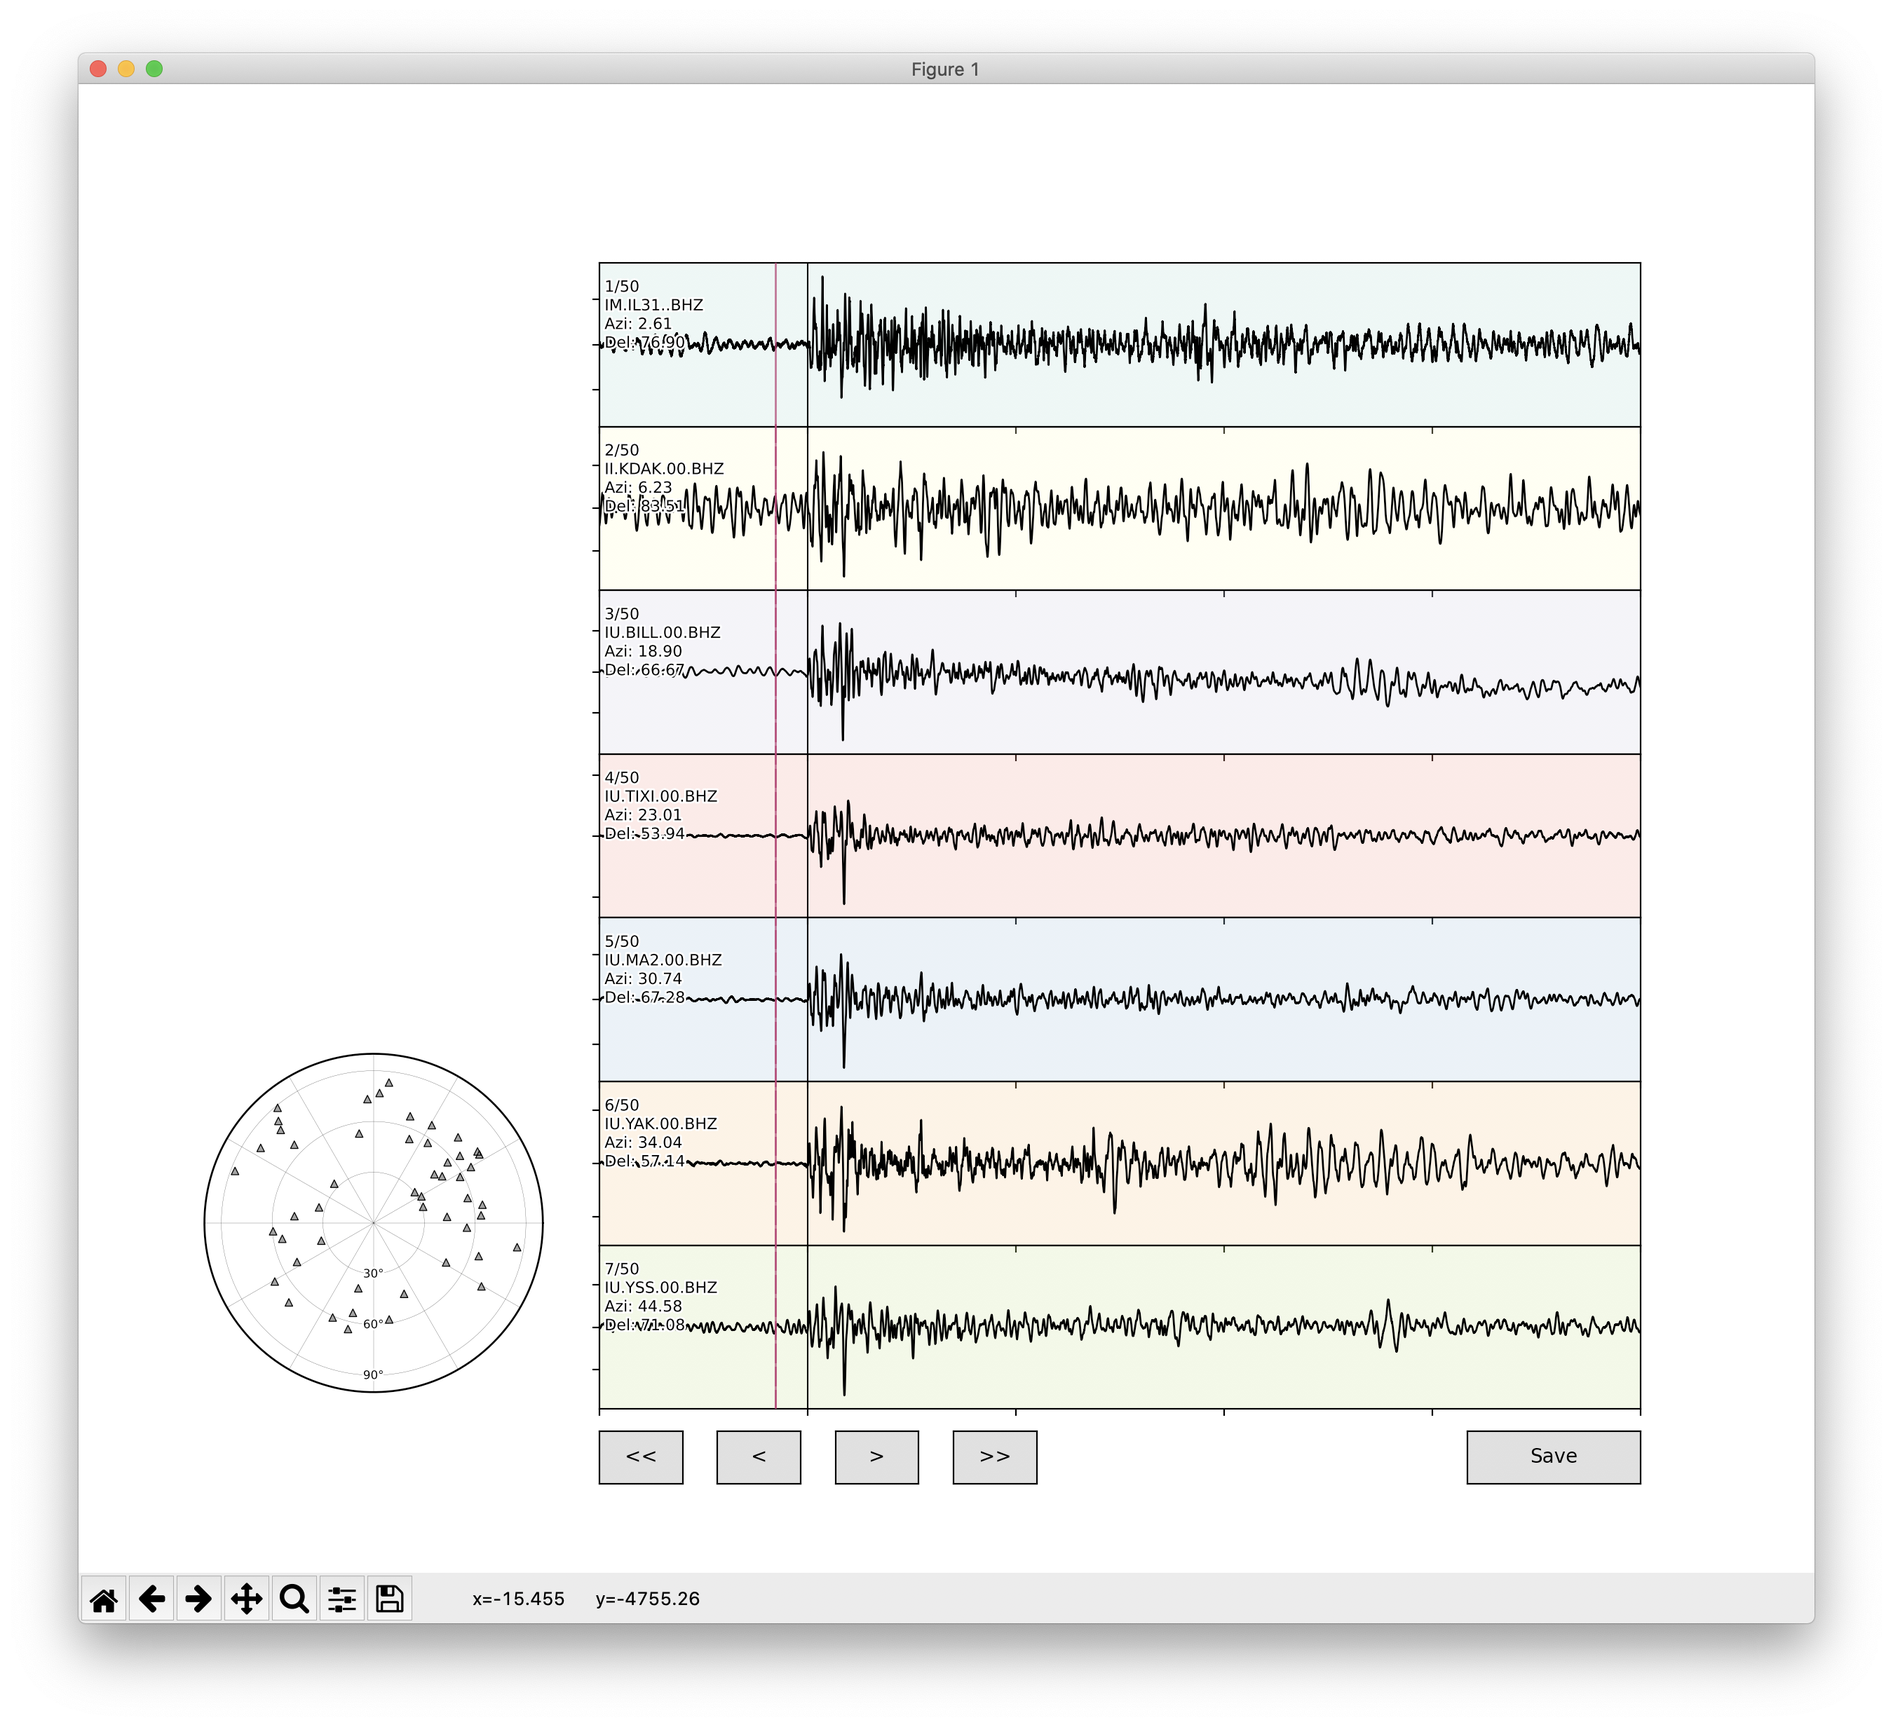
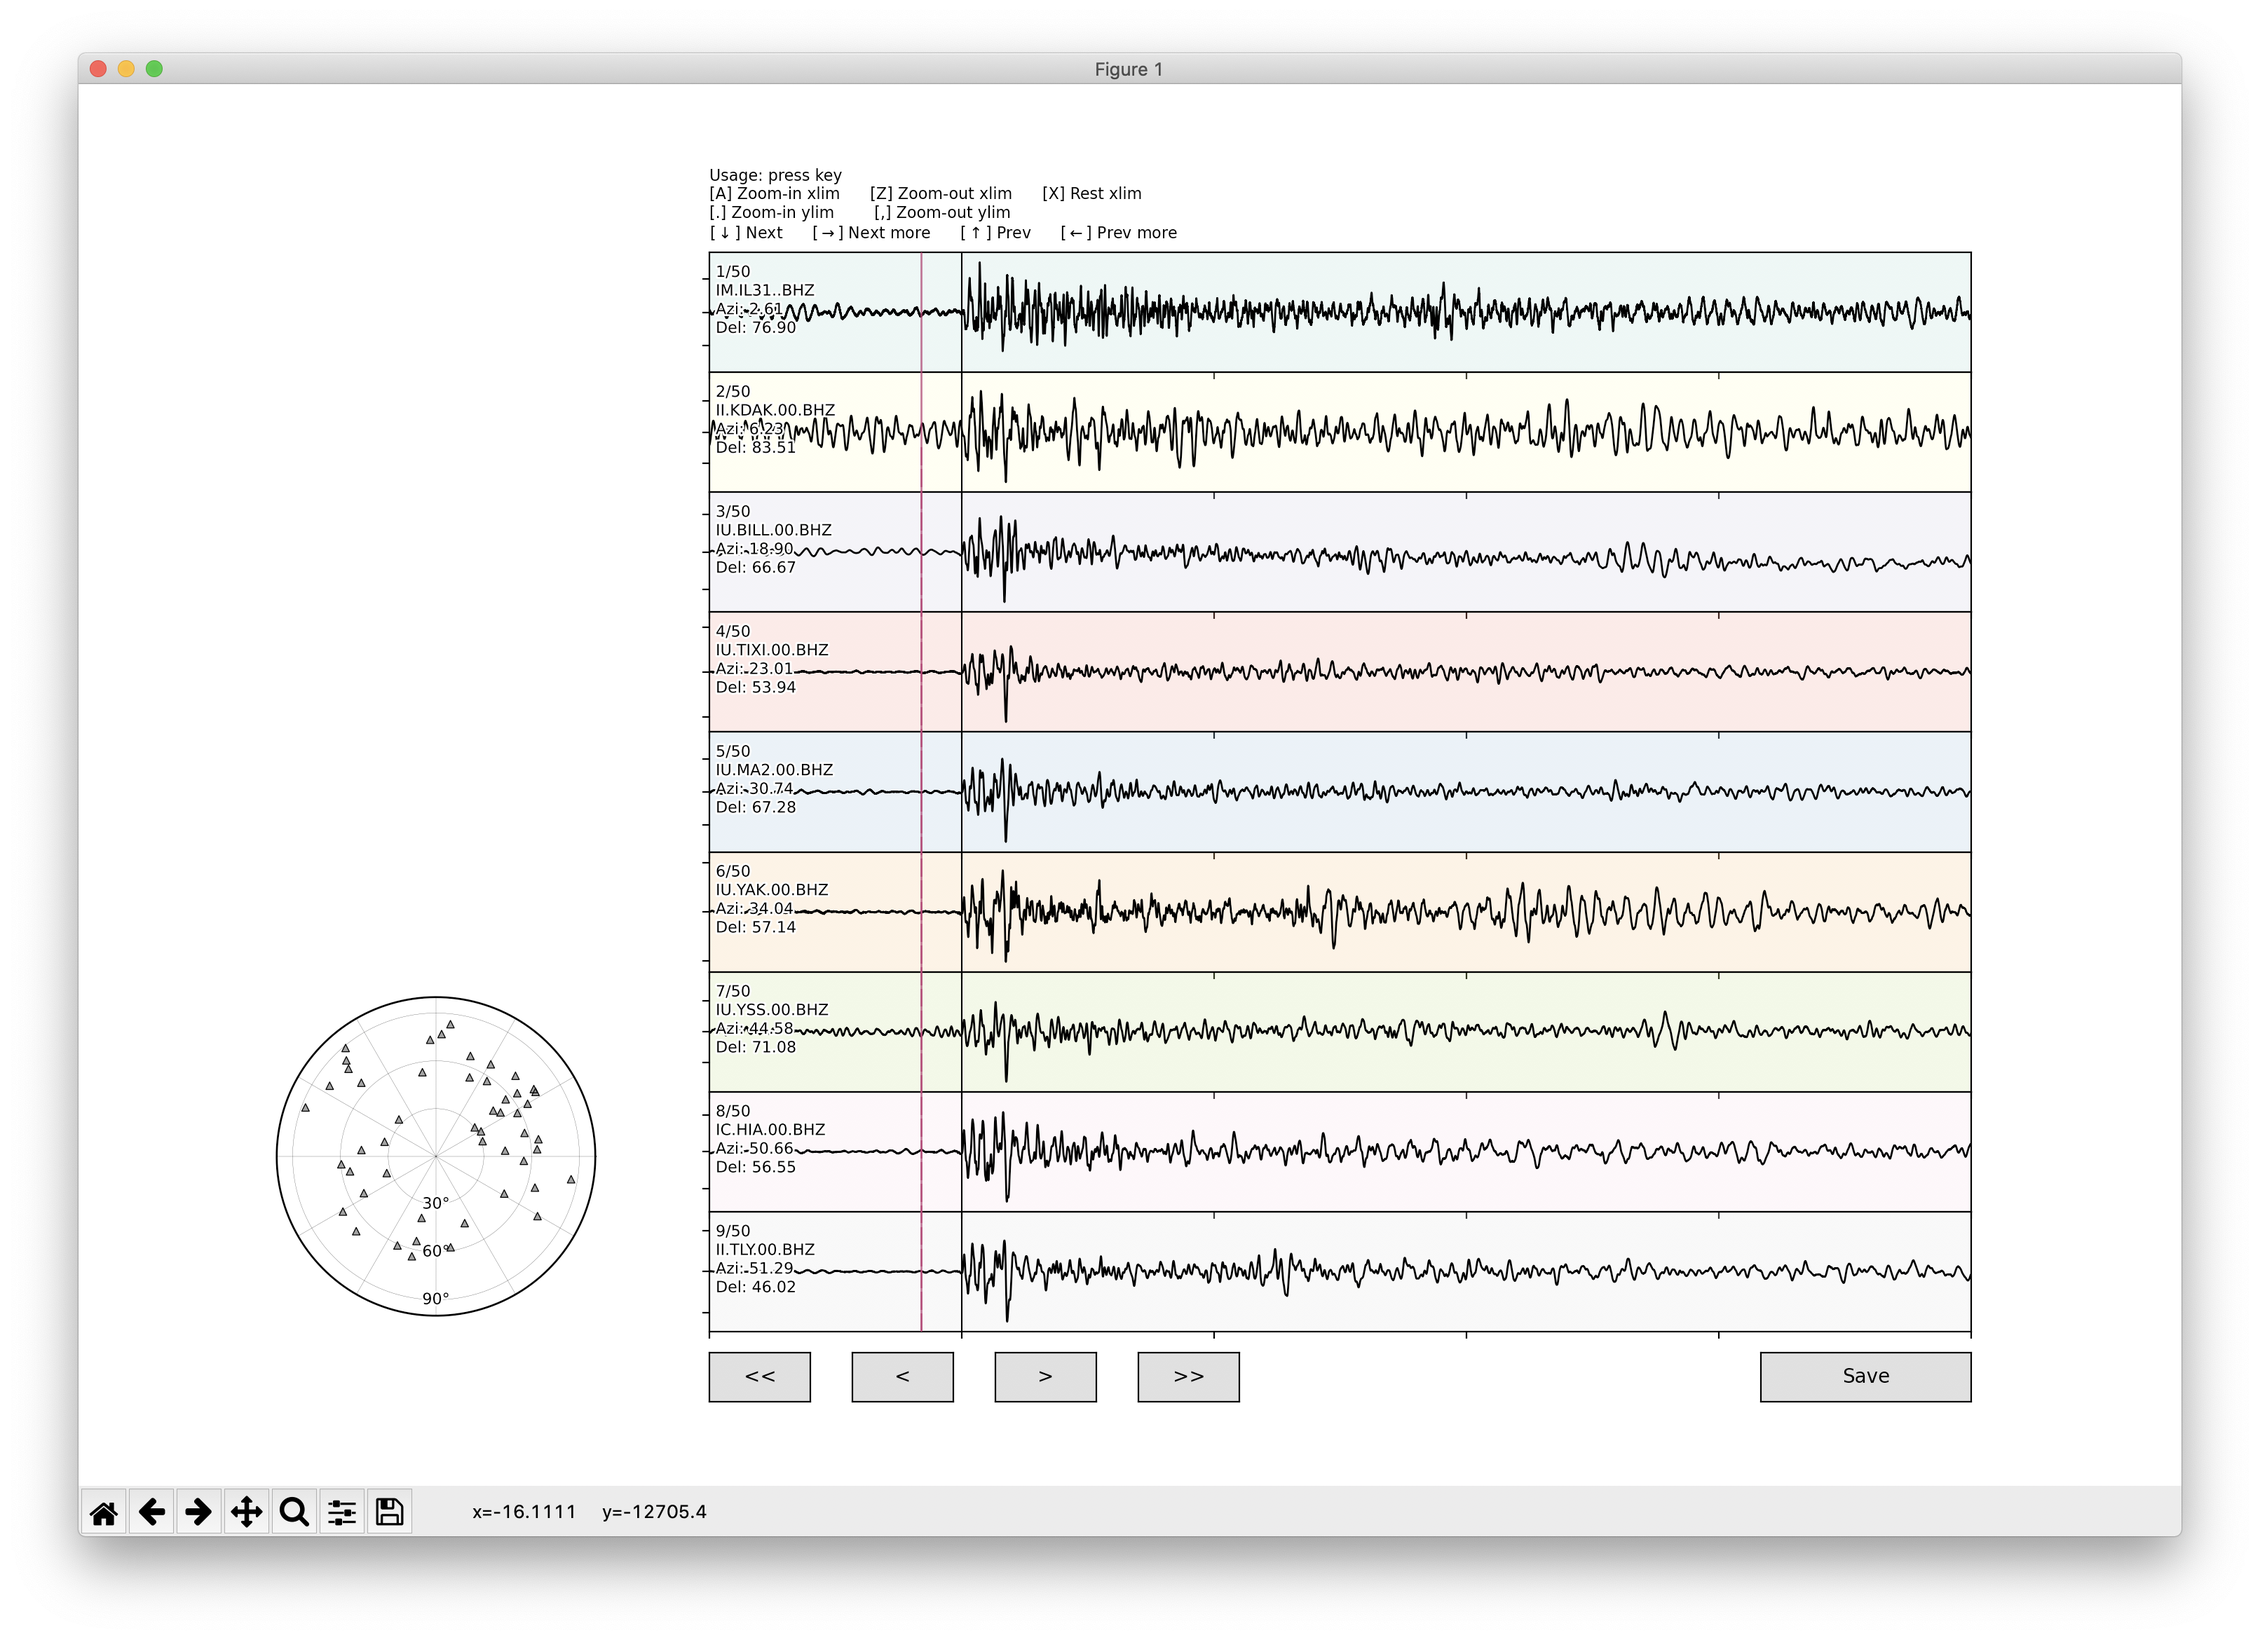
add screenshot

diff --git a/pyP.py b/pyP.py
@@ -25,7 +25,7 @@ class Index(object):
         fig.canvas.draw()
 
     def nextFurther(self, event):
-        self.ind += worknumtrace
+        self.ind += worknumtrace - 1
         if self.ind > totalnumtrace-1:
             self.ind = self.ind - totalnumtrace
         for ax in axs:
@@ -57,7 +57,7 @@ class Index(object):
         fig.canvas.draw()
 
     def prevFurther(self, event):
-        self.ind -= worknumtrace
+        self.ind -= worknumtrace - 1
         if self.ind < 0:
             self.ind = self.ind + totalnumtrace
         for ax in axs:
@@ -91,7 +91,7 @@ class Index(object):
 
     def nextFurtherKey(self, event):
         if event.key == 'right':
-            self.ind += worknumtrace
+            self.ind += worknumtrace - 1
             if self.ind > totalnumtrace-1:
                 self.ind = self.ind - totalnumtrace
             for ax in axs:
@@ -125,7 +125,7 @@ class Index(object):
 
     def prevFurtherKey(self, event):
         if event.key == 'left':
-            self.ind -= worknumtrace
+            self.ind -= worknumtrace - 1
             if self.ind < 0:
                 self.ind = self.ind + totalnumtrace
             for ax in axs:
@@ -163,11 +163,11 @@ def oncpick(event):
 
 def keypress(event):
     '''
-    press ",": Enlarge x range
-    press ".": Shrink x range
-    press "a": Enlarge y range
-    press "z": Shrink y range
-    press "x": Reset xrange
+    press ",": zoom in ylim
+    press ".": zoom out ylim
+    press "a": zoom in xlim
+    press "z": zoom out xlim
+    press "x": Reset xlim
     '''
     for ax in axs:
         x = ax.lines[0].get_xdata()
@@ -199,24 +199,17 @@ def keypress(event):
         ax.texts[0].set_y(ymax-(ymax-ymin)*0.1)
     fig.canvas.draw()
 
-def aziequi(ax, staloc0, staloc1):
-    #data = np.loadtxt(stalist, usecols=(5, 4))
-    #d, a = (data[:, 0], 90-data[:,1])
-    x, y = staloc0, staloc1
+def aziequi(ax, azilist, dellist):
+    d, a = np.array(dellist), 90-np.array(azilist)
+    x, y=(d*np.cos(a*np.pi/180.0), d*np.sin(a*np.pi/180.0))
     sc=ax.scatter(x, y, s=15, marker='^', edgecolor='none', facecolor='gray', alpha=0.85, zorder=10)
     sc=ax.scatter(x, y, s=15, marker='^', edgecolor='k', facecolor='none', alpha=1, lw=0.5, zorder=10)
-    #stalist=np.loadtxt(stalist, usecols=(0), dtype=str)
-    #print(stalist)
-    #for (i, staname) in enumerate(stalist):
-        #text = ax.text(x[i], y[i], staname, size=10, va='center')
-        #text.set_path_effects([path_effects.Stroke(linewidth=1, foreground='w', alpha=0.85), path_effects.Normal()])
-    #ax.scatter(0, 0, s=100, marker='*', edgecolor='k', facecolor='none')
     theta=np.linspace(0, 360, 360)
     for i in [30, 60, 90]:
         x, y=(i*np.cos(theta*np.pi/180.0), i*np.sin(theta*np.pi/180.0))
         ax.plot(x, y, color='k', zorder=0, solid_capstyle='round', lw=0.1)
         x, y=(i*np.cos(-90*np.pi/180.0), i*np.sin(-90*np.pi/180.0))
-        text = ax.text(x, y, str(i)+'$\degree$', size=6, va='center', ha='center')
+        text = ax.text(x, y, str(i)+'$\degree$', size=8, va='center', ha='center')
         text.set_path_effects([path_effects.Stroke(linewidth=2, foreground='w', alpha=1), path_effects.Normal()])
     delrange = np.linspace(0, 100, 10)
     for i in np.arange(0, 360, 30):
@@ -237,29 +230,29 @@ def aziequi(ax, staloc0, staloc1):
     ax.set_yticks([])
     return sc
 
-import numpy as np
-import matplotlib.pyplot as plt
-from matplotlib.widgets import Button, MultiCursor
-from matplotlib.gridspec import GridSpec
 import sys
 import glob
 import argparse
-from obspy import read
 import mplcursors
-import matplotlib.patheffects as path_effects
-from datetime import datetime
+import numpy as np
+from obspy import read
 import matplotlib as mpl
 from cycler import cycler
+from datetime import datetime
+import matplotlib.pyplot as plt
+from matplotlib.gridspec import GridSpec
+from geographiclib.geodesic import Geodesic
+import matplotlib.patheffects as path_effects
+from matplotlib.widgets import Button, MultiCursor
 cmap = plt.get_cmap('Set3', 12)
 custom_color_cycle = [ str(mpl.colors.rgb2hex(cmap(i)[:3])) for i in range(cmap.N) ]
 plt.rc('axes', prop_cycle=(cycler(color=custom_color_cycle)))
-from geographiclib.geodesic import Geodesic
 geod = Geodesic.WGS84
-
 textpe = [path_effects.Stroke(linewidth=2, foreground='w', alpha=1), path_effects.Normal()]
 xmin0 = -100
 xmax0 = 400
 
+# Argument check
 parser = argparse.ArgumentParser(description='pyP: Python based P-arrival picking tool')
 parser.add_argument('arg1', help='Number of traces shown in display (e.g., 7)')
 parser.add_argument('arg2', help='SAC files you want to pick P arrival (e.g., "./*.SAC") *Do not forget quotation marks!')
@@ -284,6 +277,7 @@ if len(glob.glob(sacfiles)) == 0:
     print('')
     sys.exit(1)
 
+# Load SAC files and sort traces based on station azimuth
 st = read(sacfiles)
 elat, elon = float(args.arg3), float(args.arg4) #38.392, 39.085
 for j in range(len(st)):
@@ -295,17 +289,15 @@ for j in range(len(st)):
     trace.stats.sac.user0 = azi
     trace.stats.sac.user1 = tmp['a12']
     st[j] = trace
-st.traces.sort(key=lambda x: x.stats.sac.user0)
+st.traces.sort(key=lambda x: x.stats.sac.user0) # sort by azimuth
 
+# Base subplots, which is not shown
 totalnumtrace = len(glob.glob(sacfiles))
-#worknumtrace = 8
-amarkerlist = np.zeros(totalnumtrace)
-
 fig, axs = plt.subplots(totalnumtrace, figsize=(15, 10))
 fig.subplots_adjust(left=0.3)
 
-azilist = []
-dellist = []
+amarkerlist = np.zeros(totalnumtrace)
+azilist, dellist = [], []
 for j,ax in enumerate(axs.flat):
     trace = st[j].copy()
     amarker = trace.stats.sac.a
@@ -324,7 +316,6 @@ for j,ax in enumerate(axs.flat):
     ax.set_ylim(ymin0, ymax0)
     textlabel = str(j+1)+'/'+str(totalnumtrace)+'\n'+str(trace.stats.network)+'.'+str(trace.stats.station)+'.'+str(trace.stats.location)+'.'+str(trace.stats.channel)
     textlabel1 = '\nAzi: '+str('{:.2f}'.format(trace.stats.sac.user0)) + '\nDel: ' + str('{:.2f}'.format(trace.stats.sac.user1))
-    #axp = ax.get_position()
     text = ax.text(xmin0+(xmax0-xmin0)*0.005, ymax0-(ymax0-ymin0)*0.1, textlabel+textlabel1, fontsize=8, ha='left', va='top').set_path_effects(textpe)
 
     ax.patch.set_facecolor('C'+str(j))
@@ -332,15 +323,12 @@ for j,ax in enumerate(axs.flat):
     ax.tick_params(labelleft=False)
     ax.tick_params(labelbottom=False)
 
+
+# Display canvus / Interactive click actions
 gs = GridSpec(worknumtrace,1, hspace=0)
-
-
-
 callback = Index()
 
 axp = axs[-1].get_position()
-
-#axp.x1-axp.width*0.1, axp.y1+0.01, axp.width*0.1, axp.height*0.75
 tmpw = axp.width*0.08
 axprevFurther = plt.axes([axp.x0, axp.y0-0.05, tmpw, 0.035])
 axprev = plt.axes([axp.x0+tmpw+0.02, axp.y0-0.05, tmpw, 0.035])
@@ -361,15 +349,15 @@ bnextFurther.on_clicked(callback.nextFurther)
 
 kpnext = fig.canvas.mpl_connect('key_press_event', callback.nextKey)
 kpnextFurther = fig.canvas.mpl_connect('key_press_event', callback.nextFurtherKey)
+
 kpprev = fig.canvas.mpl_connect('key_press_event', callback.prevKey)
 kpprevFurther = fig.canvas.mpl_connect('key_press_event', callback.prevFurtherKey)
 
 curser = MultiCursor(fig.canvas, axs, color='#B12763', lw=1, alpha=0.75)
-
 fig.canvas.mpl_connect('button_press_event', oncpick)
 fig.canvas.mpl_connect('key_press_event', keypress)
 
-
+# Initial setting: hide base subplots and display first `worknumtrace` subplots
 for ax in axs:
     ax.set_visible(False)
 
@@ -377,20 +365,22 @@ for j in np.arange(0, worknumtrace, 1):
     axs[j].set_visible(True)
     axs[j].set_position(gs[j].get_position(fig))
 
+# Show usage at top
+axp = axs[0].get_position()
+usagetext = 'Usage: press key\n[A] Zoom-in xlim      [Z] Zoom-out xlim      [X] Rest xlim\n[.] Zoom-in ylim        [,] Zoom-out ylim\n'+\
+r'[$\downarrow$] Next      [$\rightarrow$] Next more      [$\uparrow$] Prev      [$\leftarrow$] Prev more'
+fig.text(axp.x0, axp.y1+0.01, usagetext, size=8)
+
+# Station map
 axp = axs[-1].get_position()
-axbutton = fig.add_axes([axp.x1-0.1, axp.y0-0.05, 0.1, 0.035])
 axstamap = fig.add_axes([axp.x0-0.255, axp.y0, 0.25, 0.25])
 axstamap.set_aspect(1)
+sc = aziequi(axstamap, azilist, dellist)
 
+# Save function
+axbutton = fig.add_axes([axp.x1-0.1, axp.y0-0.05, 0.1, 0.035])
 axp = axbutton.get_position()
 fig.text(axp.x0-0.01, axp.y0+axp.height/2, '', ha='right', va='center')
 bsave = Button(axbutton, 'Save')
-
-#axp=ax.get_position()
-d, a = np.array(dellist), 90-np.array(azilist)
-staloc0, staloc1=(d*np.cos(a*np.pi/180.0), d*np.sin(a*np.pi/180.0))
-sc = aziequi(axstamap, staloc0, staloc1)
-
-
 
 plt.show()
